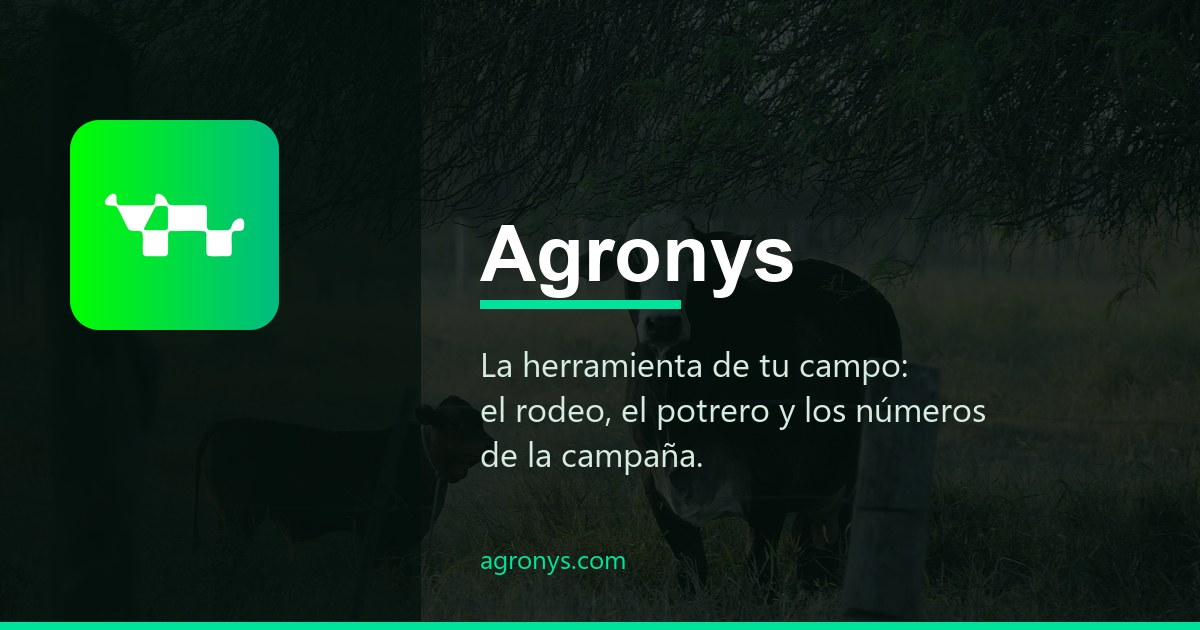
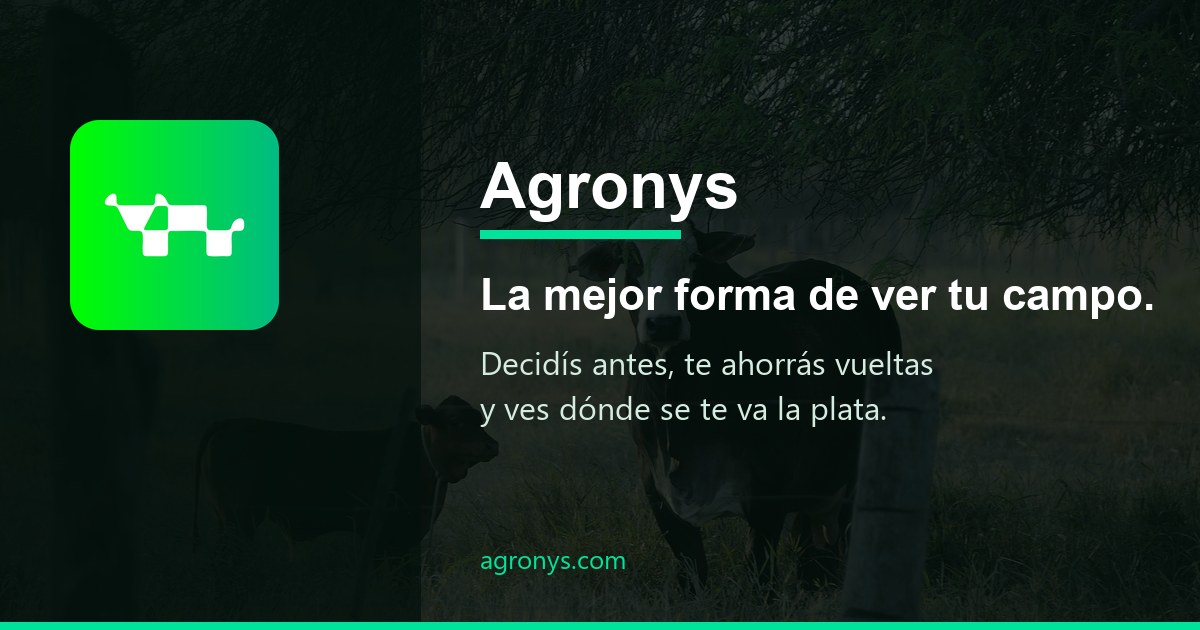
Endurece el texto del enlace con el beneficio comercial.
La vista previa habla de decidir antes y ver dónde se va la plata, no de describir la herramienta.

Changed region(s): [[0.4008, 0.2413, 0.9558, 0.5127], [0.4008, 0.6333, 0.8325, 0.754], [0.4008, 0.5429, 0.7708, 0.6032]]

diff --git a/plataforma/src/app/layout.tsx b/plataforma/src/app/layout.tsx
@@ -14,7 +14,7 @@ const plex = IBM_Plex_Sans({
 
 const site = "https://agronys.com";
 const description =
-  "La herramienta de tu campo: el rodeo, el potrero y los números de la campaña, para decidir a tiempo y cuidar la plata.";
+  "La mejor forma de ver tu campo. El rodeo, el pasto y la plata en un solo lugar: decidís antes, te ahorrás vueltas y ves dónde se te va el resultado.";
 
 export const metadata: Metadata = {
   metadataBase: new URL(site),
@@ -44,7 +44,7 @@ export const metadata: Metadata = {
         url: "/og.jpg",
         width: 1200,
         height: 630,
-        alt: "Agronys — la herramienta de tu campo",
+        alt: "Agronys — la mejor forma de ver tu campo",
       },
     ],
   },
